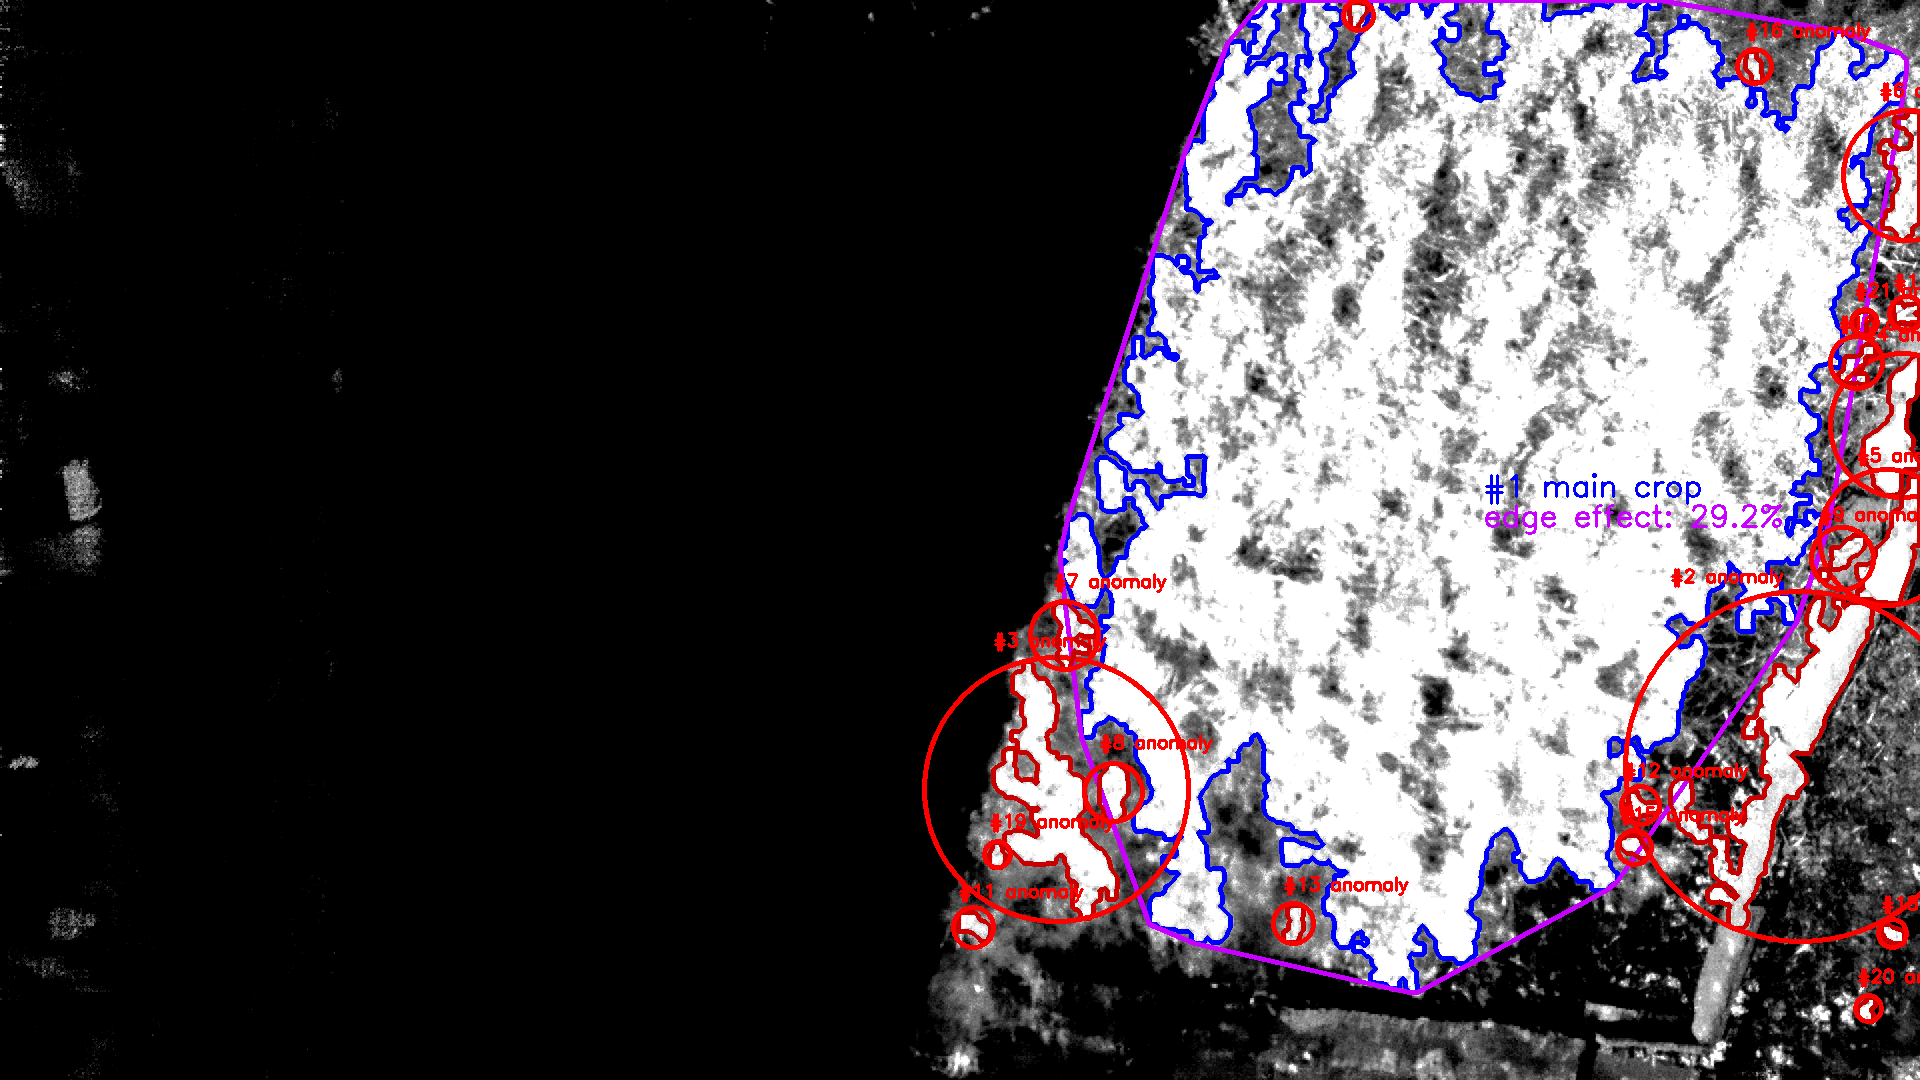
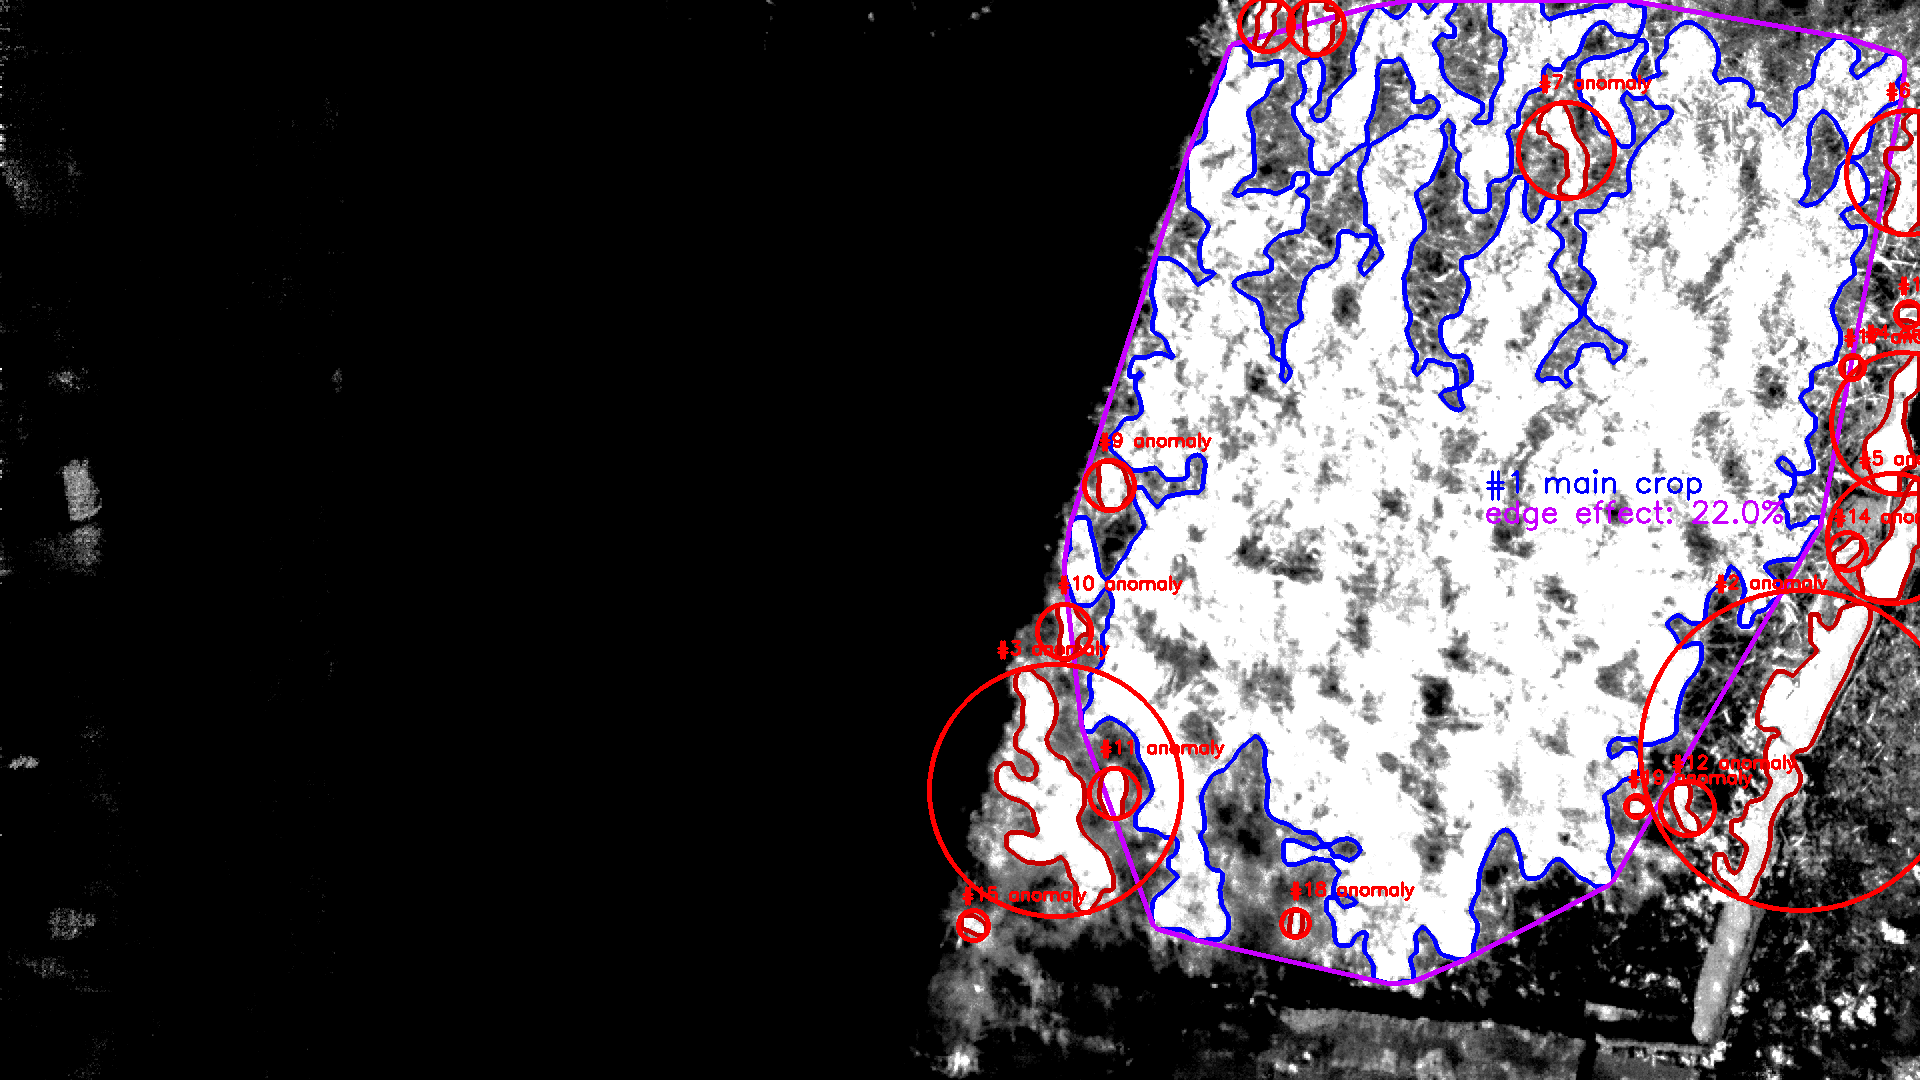
only process raw images

Changed region(s): [[0.4688, 0.0, 1.0, 0.9472], [0.7188, 0.275, 0.7812, 0.3667]]

diff --git a/web_host/image_class.py b/web_host/image_class.py
@@ -1,8 +1,18 @@
-# Based on code by Adrian Rosebrock 2016 accessed March 2021 at
-# https://www.pyimagesearch.com/2016/10/31/detecting-multiple-bright-spots-in-an-image-with-python-and-opencv/
-# see https://docs.opencv.org/3.4/d3/dc0/group__imgproc__shape.html#ga014b28e56cb8854c0de4a211cb2be656
-# Based on code by Alexander Mordvintsev & Abid K. 2013 found at:
-# https://opencv-python-tutroals.readthedocs.io/en/latest/py_tutorials/py_feature2d/py_feature_homography/py_feature_homography.html
+# Sam Kirk
+#
+# 06/04/2021
+#
+# UWE DSP Code
+# Class for processing NIR images from the PiNoIR module and creating and NDVI image for analysis
+#
+# With help from:
+# - Adrian Rosebrock 2016 at
+#   https://www.pyimagesearch.com/2016/10/31/detecting-multiple-bright-spots-in-an-image-with-python-and-opencv/
+#   accessed March 2021
+# - Alexander Mordvintsev & Abid K. 2013 at
+#   https://opencv-python-tutroals.readthedocs.io/en/latest/py_tutorials/py_feature2d/py_feature_homography/py_feature_homography.html
+#   accessed March 2021
+# - https://docs.opencv.org/3.4/d3/dc0/group__imgproc__shape.html#ga014b28e56cb8854c0de4a211cb2be656 accessed March 2021
 
 import cv2
 import numpy as np
@@ -10,12 +20,6 @@ import matplotlib.pyplot as plt
 from imutils import contours
 from skimage import measure
 import imutils
-
-'''
-cv2.imshow("Img", output)
-cv2.waitKey(0)
-cv2.destroyAllWindows()
-'''
 
 # constants
 FILE_TYPE = ".png"
@@ -32,6 +36,7 @@ NDVI_MAIN_CROP_NAME_TAIL = "_mcrop"
 NDVI_MATCH_NAME_TAIL = "_match"
 
 # threshold values for classifying areas as dead, unhealthy, healthy and very healthy
+# *255 as cv2 is encoded this way
 VH = 0.66 * 255
 H = 0.33 * 255
 UH = 0.22 * 255
@@ -57,9 +62,20 @@ class Image:
     # params - tail:string
     # returns - new_name:string
     def attach_name_tail(self, tail):
-        # new_name = self.dir + self.name.split(".")[0] + tail + ".png" todo remove?
         new_name = self.full_path.split(".")[0] + tail + FILE_TYPE
         return new_name
+
+    # run all the image processing functions todo last thing
+    # params - norm:boolean, comp_img_path:string, comps:int
+    # returns - None
+    def process_image_full(self, norm, comp_img_path, comps):
+        self.preprocess_image()
+        self.create_ndvi_images(norm)
+        self.create_colour_bar_image()
+        self.create_cmap_image()
+        self.object_detection()
+        self.main_crop_extraction()
+        self.is_match(comp_img_path, comps)
 
     # reads in original image pre-processes it then saves it with a modified name
     # params - None
@@ -185,18 +201,6 @@ class Image:
 
         cv2.imwrite(self.attach_name_tail(NDVI_COLOUR_MAP_NAME_TAIL), output)
 
-    # run all the image processing functions todo last thing
-    # params - norm:boolean, comp_img_path:string, comps:int
-    # returns - None
-    def process_image_full(self, norm, comp_img_path, comps):
-        self.preprocess_image()
-        self.create_ndvi_images(norm)
-        self.create_colour_bar_image()
-        self.create_cmap_image()
-        self.object_detection()
-        self.main_crop_extraction()
-        self.is_match(comp_img_path, comps)
-
     # create a mask of crop objects from the greyscale image to identify main crop and anomalies
     # params - None
     # returns - None
@@ -206,7 +210,7 @@ class Image:
         gray = cv2.cvtColor(img, cv2.COLOR_BGR2GRAY)
 
         # blurring reduces image noise
-        blurred = cv2.GaussianBlur(gray, (11, 11), 0)
+        blurred = cv2.GaussianBlur(gray, (35, 35), 0)
 
         # threshold the image to reveal light regions in the
         # cv2 image type is 8 bit encoding i.e. 0-255
@@ -348,7 +352,7 @@ class Image:
                 roi = image[y:y + h, x:x + w]
 
                 # Show the output image
-                self.quick_show(roi)
+                # self.quick_show(roi)
         cv2.imwrite(self.attach_name_tail(NDVI_MAIN_CROP_NAME_TAIL), roi)
 
     # takes the 'self' image and one other (as a parameter) and compares their features

diff --git a/web_host/main_host.py b/web_host/main_host.py
@@ -11,6 +11,7 @@ from time import sleep
 from datetime import datetime
 import glob
 from image_class import Image
+import re
 
 #if running on pi image_capture can run
 try:
@@ -59,28 +60,27 @@ def load_image_set(f_path, term):
     print("---- Start")
     images = []  # for storing image objects for this set
     for file in glob.glob(f_path + term):  # for each file that matches the term in the given filepath
-        # re-process raw images but do not process the old processed images
-        if (file.split("_")[-1] != "prepro.png")and(file.split("_")[-1] != "ndvi.png")and(file.split("_")[-1] != "cmap.png"):
+        # only process the raw images
+        if len(re.findall("_[0-9][0-9]-[0-9][0-9]-[0-9][0-9]\Z", file.split(".")[0])) > 0:
             image = Image(file.split("/")[-1], f_path)  # get the filename at the end of the glob path
             images.append(image)
 
-    print(images)
     return images
 
 
 def mock_function(images):  # todo rename
-    print("---- Here")
+    print("---- Mock Function Called")
     #images[0].preprocess_image()
     #images[0].create_ndvi_images(True)
     #images[0].create_colour_bar_image()
     #images[0].create_cmap_image()
     #images[0].object_detection()
-    images[0].main_crop_extraction()
+    #images[0].main_crop_extraction()
     #images[0].is_match('working_image_sets/raw_image_blue_filter copy/2021-03-25_14-07-57.png', 10)
 
     #images[0].process_image_full(True, 'working_image_sets/raw_image_blue_filter copy/2021-03-25_14-07-57.png', 10)
-    '''for image in images:
-        image.process_image_full()'''
+    for image in images:
+        image.process_image_full(True, 'working_image_sets/raw_image_blue_filter copy/2021-03-25_14-07-57.png', 10)
 
 
 if __name__ == "__main__":
